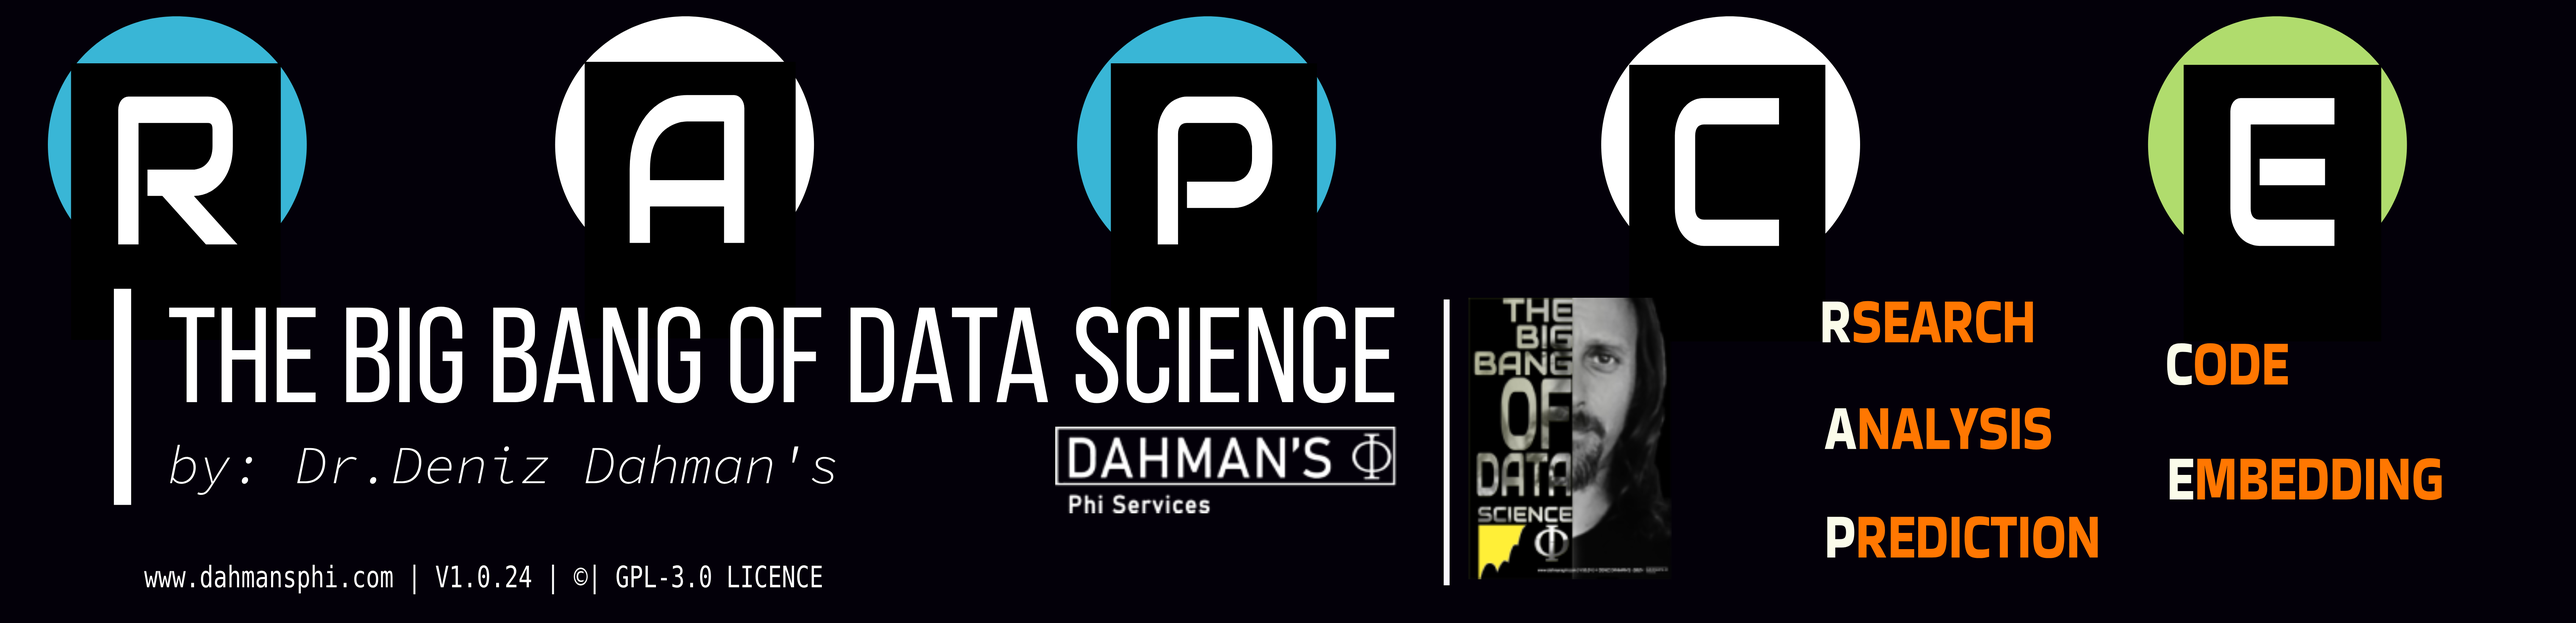
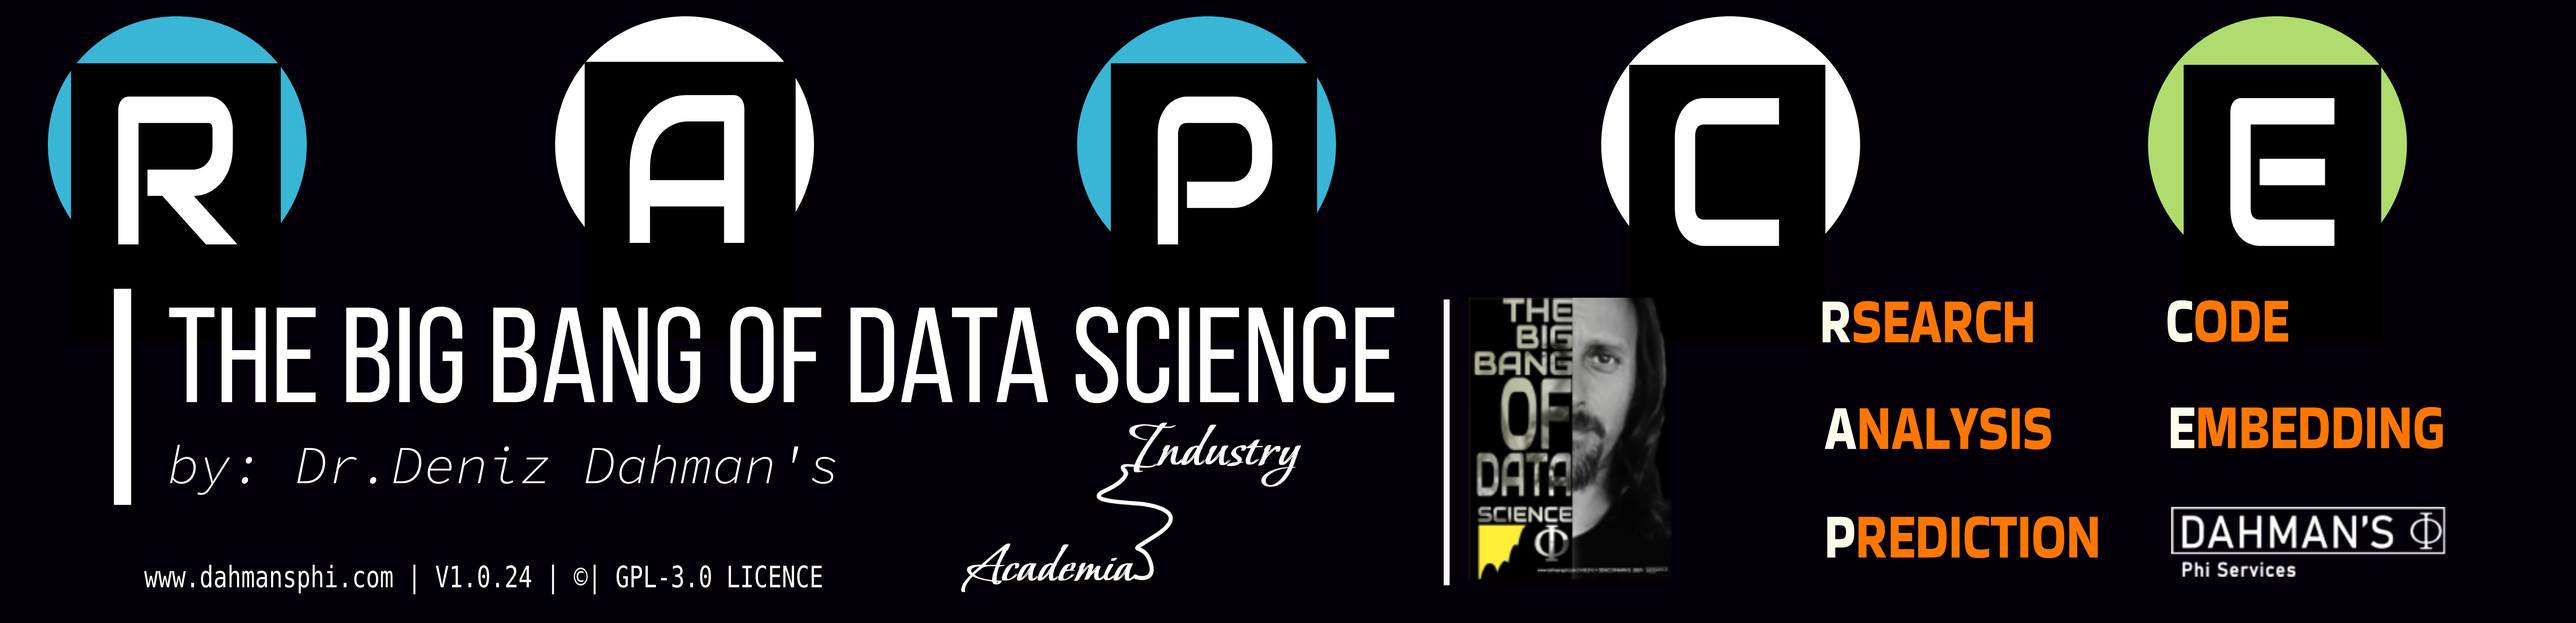
update

diff --git a/README.md b/README.md
@@ -76,7 +76,7 @@ Today’s online educational stores are flooded with immense number of materials
 
 To this end, **the big bang of data science** is _very carefully crafted material_ that **addresses this matter** in principle. `It takes you on a journey to build and create your final product/solution based on the right research foundation`. So, essentially, it shows you how to build scientific research framework, then how to work on the right methods of analysis, and finally, how to use that analytical model as an input for the prediction. _In addition_, in this **first addition**, it illustrates a way to turn that product into a digital one, using a GUI for the user to interact with, in the form of a desktop solution.  
 
-`#0969DA What you find here is a mimic of a career university`, from the start to the end. Good Luck.   
+`What you find here is a mimic of a path` **`from Academia to Industry`**, from the start to the end. Good Luck.   
 
 ![the research foundation framework.](/assets/researh_foundation.gif)
 
